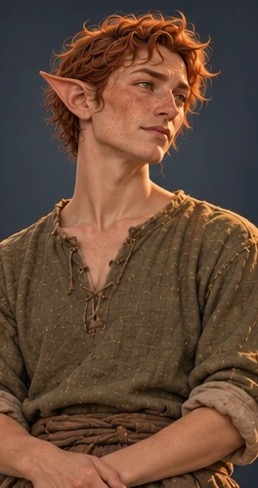
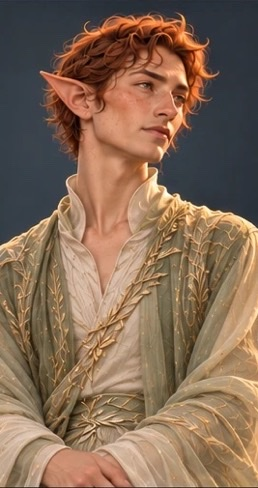
Repaint every elf from a new set of ten elf portraits
Change the elves to use these images.

diff --git a/Sources/Ezerian/ArtPainted.swift b/Sources/Ezerian/ArtPainted.swift
@@ -239,26 +239,26 @@ enum PaintedFolk {
 
     /// Every elf, five men then five women.
     static let elfFolk: [Painted] = [
-        Painted(role: "elf", painting: "elf-0", look: look(.elf, female: false, skin: 0xC8946A, hair: 0x14100C, tunic: 0x7A4026,
-                                                          legs: 0x5A3A26, longHair: true), prop: .none, apron: linen),
-        Painted(role: "elf", painting: "elf-1", look: look(.elf, female: false, skin: 0x4A2E1E, hair: 0xC0BCB8, tunic: 0x4A5A7A,
-                                                          legs: 0x5A4A3A, longHair: false), prop: .none),
-        Painted(role: "elf", painting: "elf-2", look: look(.elf, female: false, skin: 0xF0C8A8, hair: 0xC8501E, tunic: 0x6A6A3A,
-                                                          legs: 0x5A4A3A, longHair: false), prop: .none),
-        Painted(role: "elf", painting: "elf-3", look: look(.elf, female: false, skin: 0xD8A27A, hair: 0x3A2416, tunic: 0xA89A84,
-                                                          legs: 0x4A3A2E, cape: 0x3A3236, longHair: true), prop: .none),
-        Painted(role: "elf", painting: "elf-4", look: look(.elf, female: false, skin: 0xF0D8C8, hair: 0xE0D8C0, tunic: 0x6A4A5A,
-                                                          legs: 0x6A4A5A, longHair: true), prop: .none),
-        Painted(role: "elf", painting: "elf-5", look: look(.elf, female: true, skin: 0x4A2E1E, hair: 0x14100C, tunic: 0x5A5A32,
-                                                          legs: 0x5A5A32, longHair: true, dress: true), prop: .none),
-        Painted(role: "elf", painting: "elf-6", look: look(.elf, female: true, skin: 0xF0C8A8, hair: 0xC8501E, tunic: 0x4A5A7A,
-                                                          legs: 0x4A5A7A, longHair: false, dress: true), prop: .none),
-        Painted(role: "elf", painting: "elf-7", look: look(.elf, female: true, skin: 0xC8946A, hair: 0x14100C, tunic: 0xC8B898,
-                                                          legs: 0x6A4028, cape: 0x6A4028, longHair: true, dress: true), prop: .none),
-        Painted(role: "elf", painting: "elf-8", look: look(.elf, female: true, skin: 0xD8B090, hair: 0xB8B4B0, tunic: 0x6A4A5A,
-                                                          legs: 0x6A4A5A, longHair: false, dress: true), prop: .none),
-        Painted(role: "elf", painting: "elf-9", look: look(.elf, female: true, skin: 0xF0D0B0, hair: 0xD8A868, tunic: 0x5A6A44,
-                                                          legs: 0x5A6A44, longHair: true, dress: true), prop: .none),
+        Painted(role: "elf", painting: "elf-0", look: look(.elf, female: false, skin: 0xC8946A, hair: 0x2A1A12, tunic: 0xDCCCB0,
+                                                          legs: 0xC8B494, cape: 0xC8B494, longHair: true), prop: .none),
+        Painted(role: "elf", painting: "elf-1", look: look(.elf, female: false, skin: 0x4A2E1E, hair: 0xC0BCB8, tunic: 0x3A4270,
+                                                          legs: 0x3A4270, cape: 0x7A86AA, longHair: false), prop: .none),
+        Painted(role: "elf", painting: "elf-2", look: look(.elf, female: false, skin: 0xF0C8A8, hair: 0xB8461E, tunic: 0xDCD4B0,
+                                                          legs: 0x8A9A6A, cape: 0x9AA878, longHair: false), prop: .none),
+        Painted(role: "elf", painting: "elf-3", look: look(.elf, female: false, skin: 0xD8A27A, hair: 0x2A1A12, tunic: 0x4A3A50,
+                                                          legs: 0x4A3A50, cape: 0x8A7E90, longHair: true), prop: .none),
+        Painted(role: "elf", painting: "elf-4", look: look(.elf, female: false, skin: 0xF0D8C8, hair: 0xE8DCC0, tunic: 0xE0D4D8,
+                                                          legs: 0x9A7AAA, cape: 0x9A7AAA, longHair: true), prop: .none),
+        Painted(role: "elf", painting: "elf-5", look: look(.elf, female: true, skin: 0x8A5A3A, hair: 0x1A1410, tunic: 0x9AA27A,
+                                                          legs: 0x9AA27A, cape: 0xE0D4BC, longHair: true, dress: true), prop: .none),
+        Painted(role: "elf", painting: "elf-6", look: look(.elf, female: true, skin: 0xF0C8A8, hair: 0xC8501E, tunic: 0x7A86B0,
+                                                          legs: 0x7A86B0, cape: 0x9AA0C4, longHair: false, dress: true), prop: .none),
+        Painted(role: "elf", painting: "elf-7", look: look(.elf, female: true, skin: 0xD8A882, hair: 0x1A1410, tunic: 0xE0D4BC,
+                                                          legs: 0xE0D4BC, cape: 0xD8B888, longHair: true, dress: true), prop: .none),
+        Painted(role: "elf", painting: "elf-8", look: look(.elf, female: true, skin: 0xE0BCA0, hair: 0xB8B4B0, tunic: 0x9A8AB4,
+                                                          legs: 0x9A8AB4, cape: 0xC8BCD4, longHair: false, dress: true), prop: .none),
+        Painted(role: "elf", painting: "elf-9", look: look(.elf, female: true, skin: 0xF0D0B0, hair: 0xC89A60, tunic: 0x8A9A6A,
+                                                          legs: 0x8A9A6A, cape: 0xD8C8A8, longHair: true, dress: true), prop: .none),
     ]
 
     /// Every orc, five men then five women.
